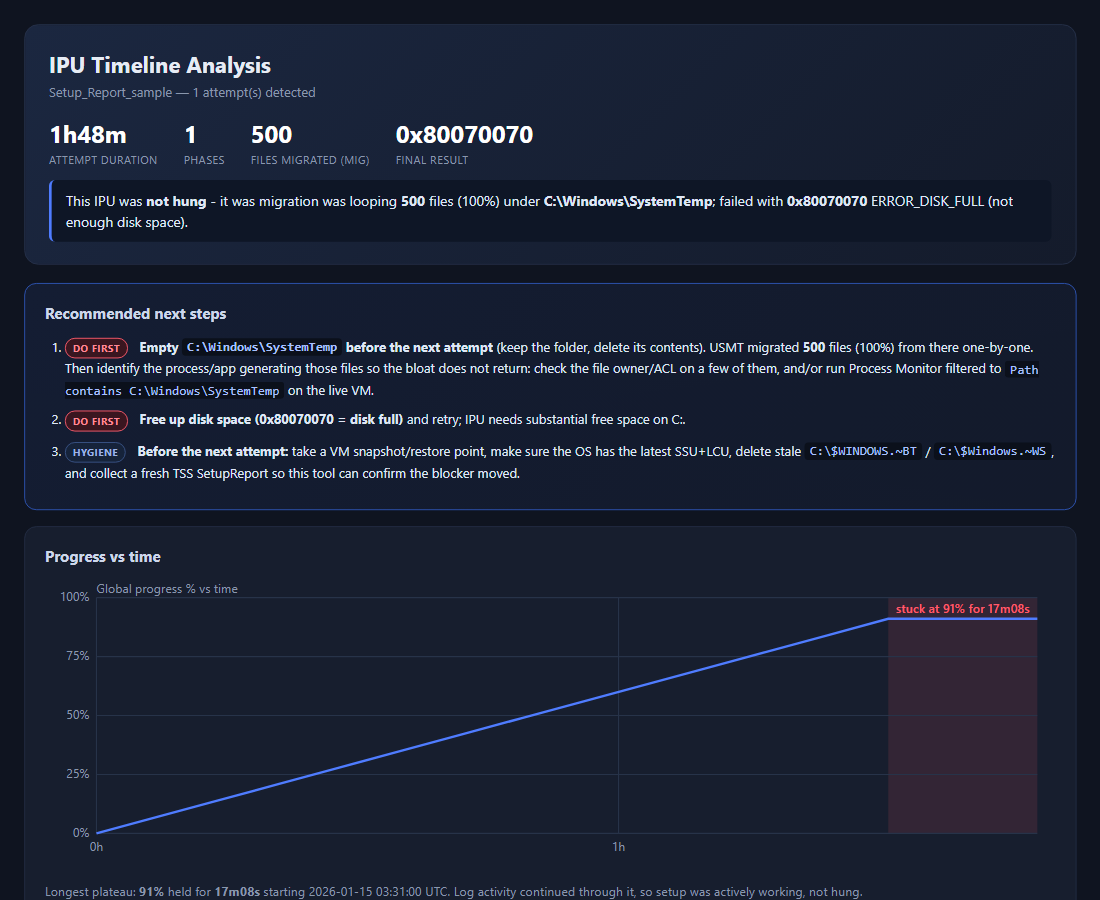
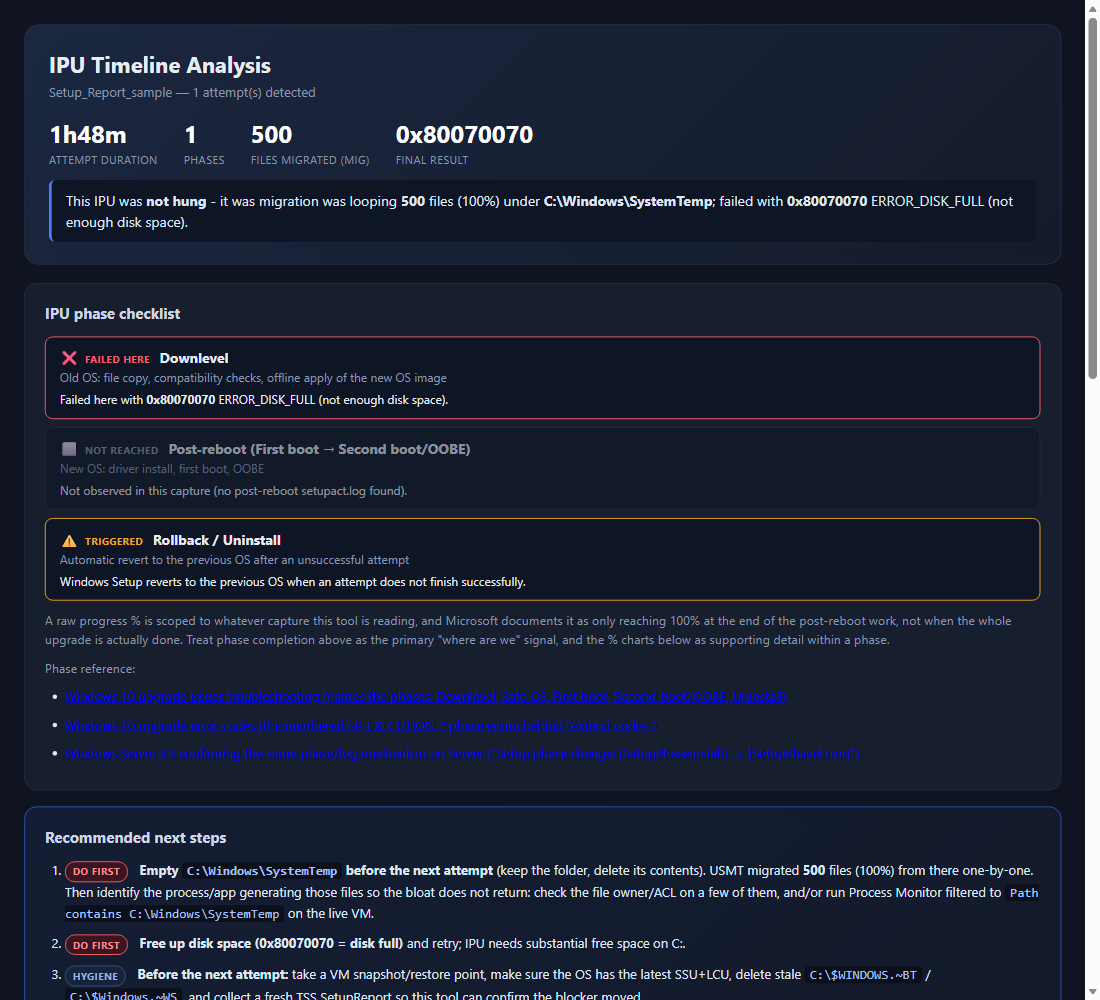
Add IPU phase checklist (Downlevel/post-reboot/rollback) instead of raw progress %
Replaces the raw progress % as the primary 'where are we' indicator with a
phase checklist, since Microsoft's own docs note the percentage only reaches
100% at the end of the post-reboot work, not when the upgrade is done.

Backed by:
- Windows 10 upgrade issues troubleshooting (names the phases)
- Windows 10 upgrade error codes (SP_EXECUTION_* phase enum)
- Windows Server KB 0x80070003 (confirms same mechanism on Server)

Changed region(s): [[0.0, 0.0, 1.0, 1.0]]

diff --git a/samples/sample_report.html b/samples/sample_report.html
@@ -32,6 +32,19 @@ h2{font-size:15px;margin:0 0 12px;color:#cdd7ea}
 .recs{border-color:#2f57b8;background:linear-gradient(135deg,#141d33,#131a2b)}
 .reclist{margin:6px 0 0;padding-left:20px}
 .reclist li{margin:9px 0;color:#dfe7f5;font-size:13px}
+.phaselist{list-style:none;margin:6px 0 0;padding:0;display:flex;flex-direction:column;gap:8px}
+.phaserow{border-radius:8px;padding:10px 14px;border:1px solid #263149;background:#0e1626}
+.phaserow .pico{margin-right:6px}
+.phaserow .pstatus{font-size:10px;font-weight:700;letter-spacing:.04em;color:var(--mut);margin-right:6px}
+.phase-done{border-color:var(--acc2)}
+.phase-done .pstatus{color:var(--acc2)}
+.phase-current{border-color:var(--acc)}
+.phase-current .pstatus{color:var(--acc)}
+.phase-stalled,.phase-triggered{border-color:var(--warn)}
+.phase-stalled .pstatus,.phase-triggered .pstatus{color:var(--warn)}
+.phase-failed{border-color:var(--bad)}
+.phase-failed .pstatus{color:var(--bad)}
+.phase-not_reached{opacity:.55}
 .pr{display:inline-block;font-size:10px;font-weight:700;letter-spacing:.04em;padding:2px 7px;border-radius:10px;margin-right:8px;vertical-align:middle}
 .pr.p1{background:#3a1620;color:#ff8a97;border:1px solid #ff5c6c}
 .pr.p2{background:#2a2410;color:#ffcf7a;border:1px solid #f5a623}
@@ -54,12 +67,13 @@ code{background:#0b101b;padding:1px 5px;border-radius:4px;font-family:Consolas,m
       </div>
       <div class="verdict">This IPU was <b>not hung</b> - it was migration was looping <b>500</b> files (100%) under <b>C:\Windows\SystemTemp</b>; failed with <b>0x80070070</b> ERROR_DISK_FULL (not enough disk space).</div>
     </div>
+<div class="card"><h2>IPU phase checklist</h2><ul class="phaselist"><li class="phaserow phase-failed"><span class="pico">&#10060;</span><span class="pstatus">FAILED HERE</span> <b>Downlevel</b><div class="small muted">Old OS: file copy, compatibility checks, offline apply of the new OS image</div><div class="small" style="margin-top:4px">Failed here with <b>0x80070070</b> ERROR_DISK_FULL (not enough disk space).</div></li><li class="phaserow phase-not_reached"><span class="pico">&#11036;</span><span class="pstatus">NOT REACHED</span> <b>Post-reboot (First boot &rarr; Second boot/OOBE)</b><div class="small muted">New OS: driver install, first boot, OOBE</div><div class="small" style="margin-top:4px">Not observed in this capture (no post-reboot setupact.log found).</div></li><li class="phaserow phase-triggered"><span class="pico">&#9888;&#65039;</span><span class="pstatus">TRIGGERED</span> <b>Rollback / Uninstall</b><div class="small muted">Automatic revert to the previous OS after an unsuccessful attempt</div><div class="small" style="margin-top:4px">Windows Setup reverts to the previous OS when an attempt does not finish successfully.</div></li></ul><p class="note">A raw progress % is scoped to whatever capture this tool is reading, and Microsoft documents it as only reaching 100% at the end of the post-reboot work, not when the whole upgrade is actually done. Treat phase completion above as the primary "where are we" signal, and the % charts below as supporting detail within a phase.</p><p class="note">Phase reference:</p><ul class="reclist small"><li><a href="https://learn.microsoft.com/en-us/troubleshoot/windows-client/setup-upgrade-and-drivers/windows-10-upgrade-issues-troubleshooting">Windows 10 upgrade issues troubleshooting (names the phases: Downlevel, Safe OS, First boot, Second boot/OOBE, Uninstall)</a></li><li><a href="https://learn.microsoft.com/en-us/troubleshoot/windows-client/deployment/windows-10-upgrade-error-codes">Windows 10 upgrade error codes (the numbered SP_EXECUTION_* phase enum behind &quot;extend codes&quot;)</a></li><li><a href="https://learn.microsoft.com/en-us/troubleshoot/windows-server/setup-upgrade-and-drivers/error-0x80070003-during-process-drivers-for-migration">Windows Server KB confirming the same phase/log mechanism on Server (&quot;Setup phase change: [SetupPhaseInstall] -&gt; [SetupPhaseError]&quot;)</a></li></ul></div>
 <div class="card recs"><h2>Recommended next steps</h2><ol class="reclist"><li><span class="pr p1">DO FIRST</span> <b>Empty <code>C:\Windows\SystemTemp</code> before the next attempt</b> (keep the folder, delete its contents). USMT migrated <b>500</b> files (100%) from there one-by-one. Then identify the process/app generating those files so the bloat does not return: check the file owner/ACL on a few of them, and/or run Process Monitor filtered to <code>Path contains C:\Windows\SystemTemp</code> on the live VM.</li><li><span class="pr p1">DO FIRST</span> <b>Free up disk space (0x80070070 = disk full)</b> and retry; IPU needs substantial free space on C:.</li><li><span class="pr p3">HYGIENE</span> <b>Before the next attempt:</b> take a VM snapshot/restore point, make sure the OS has the latest SSU+LCU, delete stale <code>C:\$WINDOWS.~BT</code> / <code>C:\$Windows.~WS</code>, and collect a fresh TSS SetupReport so this tool can confirm the blocker moved.</li></ol></div>
 <div class="card"><h2>Progress vs time</h2><svg viewBox="0 0 900 260" class="chart">
       <rect x="751.2" y="16" width="132.8" height="210" class="stall"/><text x="817.6" y="30" class="stalllbl" text-anchor="middle">stuck at 91% for 17m08s</text><line x1="46" y1="226.0" x2="884" y2="226.0" class="grid"/><text x="40" y="229.0" class="axl" text-anchor="end">0%</text><line x1="46" y1="173.5" x2="884" y2="173.5" class="grid"/><text x="40" y="176.5" class="axl" text-anchor="end">25%</text><line x1="46" y1="121.0" x2="884" y2="121.0" class="grid"/><text x="40" y="124.0" class="axl" text-anchor="end">50%</text><line x1="46" y1="68.5" x2="884" y2="68.5" class="grid"/><text x="40" y="71.5" class="axl" text-anchor="end">75%</text><line x1="46" y1="16.0" x2="884" y2="16.0" class="grid"/><text x="40" y="19.0" class="axl" text-anchor="end">100%</text><line x1="46.0" y1="16" x2="46.0" y2="226" class="grid"/><text x="46.0" y="242" class="axl" text-anchor="middle">0h</text><line x1="511.0" y1="16" x2="511.0" y2="226" class="grid"/><text x="511.0" y="242" class="axl" text-anchor="middle">1h</text>
       <polyline points="46.0,226.0 100.2,211.3 154.5,196.6 208.7,181.9 263.0,167.2 317.2,152.5 371.5,137.8 425.7,123.1 480.0,108.4 534.2,93.7 588.5,79.0 642.7,64.3 697.0,49.6 751.2,34.9 884.0,34.9" class="progline"/>
       <text x="46" y="12" class="cap">Global progress % vs time</text>
-    </svg><p class="note">Longest plateau: <b>91%</b> held for <b>17m08s</b> starting 2026-01-15 03:31:00 UTC. Log activity continued through it, so setup was actively working, not hung.</p></div>
+    </svg><p class="note">Longest plateau: <b>91%</b> held for <b>17m08s</b> starting 2026-01-15 03:31:00 UTC. Log activity continued through it, so setup was actively working, not hung.</p><p class="note">This % is scoped to this capture and only reaches 100% at the end of the post-reboot work, not when the whole upgrade is done. See the IPU phase checklist above for a more reliable view of where this run actually is.</p></div>
 <div class="card"><h2>Phase durations</h2><svg viewBox="0 0 900 36" class="chart"><text x="0" y="21" class="axl2">Finalize</text><rect x="260" y="10" width="520.0" height="16" class="bar"/><text x="786.0" y="22" class="axl2">17m08s</text></svg><p class="note">Phases from <code>Setup phase change: [x] -&gt; [y]</code> (downlevel portion; a cancelled IPU never reaches SafeOS/FirstBoot).</p></div>
 <div class="card"><h2>Migrated-file hotspots (MIG "Processing File")</h2><svg viewBox="0 0 900 36" class="chart"><text x="0" y="21" class="axl2">C:\Windows\SystemTemp</text><rect x="260" y="10" width="520.0" height="16" class="bar3"/><text x="786.0" y="22" class="axl2">500 (100%)</text></svg><p class="note">Total processed = <b>500</b>. A single folder dominating (often <code>C:\Windows\SystemTemp</code>) means USMT is looping millions of tiny files. Clearing that folder before the retry is the fix. If it refills, a live process is generating them (check file owner/ACL or run ProcMon on the folder).</p></div>
 <div class="card"><h2>Outcome</h2><div class="panel">Final result: <b>0x80070070</b> ERROR_DISK_FULL (not enough disk space)</div><details><summary>setuperr.log tail</summary><pre class="log">2026-01-15 03:48:08, Error           SP     Result = 0x80070070</pre></details></div>
@@ -75,4 +89,4 @@ code{background:#0b101b;padding:1px 5px;border-radius:4px;font-family:Consolas,m
 <tr><td>ScanResult</td><td class="mono">UpgradeSetup\~bt_Panther\ScanResult.xml</td><td>Pre-flight compat scan verdict per hardware/plugin/program (BlockingType=Hard/None + Message) - e.g. a domain controller missing ADPREP /DOMAINPREP.</td></tr>
 </table>
 <p class="note"><b>Reading the phases:</b> Downlevel (running OS) &rarr; SafeOS/WinPE (offline apply) &rarr; FirstBoot &rarr; SecondBoot &rarr; OOBE. Progress 0-~90% is downlevel+offline apply; a stall at ~88-90% is almost always the offline apply / USMT migration.</p></div>
-<div class="card"><h2>Sources parsed</h2><div class="small">downlevel_act: <span class="mono small">samples\Setup_Report_sample\~bt_Panther\setupact.log</span><br>downlevel_err: <span class="mono small">samples\Setup_Report_sample\~bt_Panther\setuperr.log</span></div><div class="small muted" style="margin-top:8px">Generated 2026-11-10 15:47 local by ipu_analyze.py. Times shown are raw log timestamps (Azure IPU logs are UTC).</div></div></body></html>
+<div class="card"><h2>Sources parsed</h2><div class="small">downlevel_act: <span class="mono small">samples\Setup_Report_sample\~bt_Panther\setupact.log</span><br>downlevel_err: <span class="mono small">samples\Setup_Report_sample\~bt_Panther\setuperr.log</span></div><div class="small muted" style="margin-top:8px">Generated 2026-11-10 16:43 local by ipu_analyze.py. Times shown are raw log timestamps (Azure IPU logs are UTC).</div></div></body></html>

diff --git a/ipu_analyze.py b/ipu_analyze.py
@@ -1038,7 +1038,10 @@ def render_attempt_detail(am, idx, total):
     else:
         plateau = ''
     parts.append(A + hdr + '<h2>Progress vs time</h2>' +
-                 svg_progress(am['progress'], astart, aend, am['stall']) + plateau + _time_budget(am) + Z)
+                 svg_progress(am['progress'], astart, aend, am['stall']) + plateau + _time_budget(am) +
+                 '<p class="note">This % is scoped to this capture and only reaches 100% at the end of the '
+                 'post-reboot work, not when the whole upgrade is done. See the IPU phase checklist above for '
+                 'a more reliable view of where this run actually is.</p>' + Z)
     # phases
     if am['phase_rows']:
         items = [(r['phase'].replace('SetupPhase', ''), r['dur'], fmt_dur(r['dur'])) for r in am['phase_rows']]
@@ -1206,6 +1209,29 @@ def render_html(model):
       </div>
       <div class="verdict">{m['verdict']}</div>
     </div>''')
+
+    # IPU PHASE CHECKLIST: where this run actually is, as an alternative to a raw %
+    # (right after the hero, ahead of recommendations, since it's the orientation
+    # the rest of the report builds on)
+    pcl = m.get('phase_checklist') or []
+    if pcl:
+        status_icon = {'done': '&#9989;', 'current': '&#128312;', 'stalled': '&#9888;&#65039;',
+                       'failed': '&#10060;', 'not_reached': '&#11036;', 'triggered': '&#9888;&#65039;'}
+        status_label = {'done': 'DONE', 'current': 'IN PROGRESS', 'stalled': 'STUCK HERE',
+                         'failed': 'FAILED HERE', 'not_reached': 'NOT REACHED', 'triggered': 'TRIGGERED'}
+        rows_html = ''.join(
+            f'<li class="phaserow phase-{r["status"]}"><span class="pico">{status_icon.get(r["status"], "")}</span>'
+            f'<span class="pstatus">{status_label.get(r["status"], "")}</span> <b>{r["label"]}</b>'
+            f'<div class="small muted">{esc(r["sub"])}</div>'
+            f'<div class="small" style="margin-top:4px">{r["detail"]}</div></li>'
+            for r in pcl)
+        refs = ''.join(f'<li><a href="{url}">{esc(title)}</a></li>' for title, url in PHASE_DOC_REFS)
+        parts.append('<div class="card"><h2>IPU phase checklist</h2><ul class="phaselist">' + rows_html + '</ul>'
+                     '<p class="note">A raw progress % is scoped to whatever capture this tool is reading, and '
+                     'Microsoft documents it as only reaching 100% at the end of the post-reboot work, not when '
+                     'the whole upgrade is actually done. Treat phase completion above as the primary '
+                     '"where are we" signal, and the % charts below as supporting detail within a phase.</p>'
+                     '<p class="note">Phase reference:</p><ul class="reclist small">' + refs + '</ul></div>')
 
     # RECOMMENDED NEXT STEPS (prominent, right after hero)
     recs = m.get('recommendations') or []
@@ -1431,6 +1457,19 @@ h2{font-size:15px;margin:0 0 12px;color:#cdd7ea}
 .recs{border-color:#2f57b8;background:linear-gradient(135deg,#141d33,#131a2b)}
 .reclist{margin:6px 0 0;padding-left:20px}
 .reclist li{margin:9px 0;color:#dfe7f5;font-size:13px}
+.phaselist{list-style:none;margin:6px 0 0;padding:0;display:flex;flex-direction:column;gap:8px}
+.phaserow{border-radius:8px;padding:10px 14px;border:1px solid #263149;background:#0e1626}
+.phaserow .pico{margin-right:6px}
+.phaserow .pstatus{font-size:10px;font-weight:700;letter-spacing:.04em;color:var(--mut);margin-right:6px}
+.phase-done{border-color:var(--acc2)}
+.phase-done .pstatus{color:var(--acc2)}
+.phase-current{border-color:var(--acc)}
+.phase-current .pstatus{color:var(--acc)}
+.phase-stalled,.phase-triggered{border-color:var(--warn)}
+.phase-stalled .pstatus,.phase-triggered .pstatus{color:var(--warn)}
+.phase-failed{border-color:var(--bad)}
+.phase-failed .pstatus{color:var(--bad)}
+.phase-not_reached{opacity:.55}
 .pr{display:inline-block;font-size:10px;font-weight:700;letter-spacing:.04em;padding:2px 7px;border-radius:10px;margin-right:8px;vertical-align:middle}
 .pr.p1{background:#3a1620;color:#ff8a97;border:1px solid #ff5c6c}
 .pr.p2{background:#2a2410;color:#ffcf7a;border:1px solid #f5a623}
@@ -1598,6 +1637,97 @@ def parse_online_phase(found):
     meaningful = bool(a['phase_rows']) or a['max_pct'] > 0
     return dict(meaningful=meaningful, booted=booted, model=a)
 
+# --------------------------------------------------------------------------
+# macro IPU phase checklist
+# --------------------------------------------------------------------------
+# A raw progress % is a poor "where are we" indicator on its own: it is scoped to
+# whichever log this tool happens to be reading, and Microsoft's own docs note the
+# in-box upgrade UI's percentage only reaches 100% at the END of the post-reboot
+# work, not when the whole upgrade is actually done. So alongside the % curve, build
+# a small checklist of the real macro phases Windows Setup goes through, and show
+# which already finished, which this run is currently in (or stuck/failed in), and
+# which haven't been reached yet. References for the phase model used below:
+PHASE_DOC_REFS = [
+    ('Windows 10 upgrade issues troubleshooting (names the phases: Downlevel, Safe OS, First boot, Second boot/OOBE, Uninstall)',
+     'https://learn.microsoft.com/en-us/troubleshoot/windows-client/setup-upgrade-and-drivers/windows-10-upgrade-issues-troubleshooting'),
+    ('Windows 10 upgrade error codes (the numbered SP_EXECUTION_* phase enum behind "extend codes")',
+     'https://learn.microsoft.com/en-us/troubleshoot/windows-client/deployment/windows-10-upgrade-error-codes'),
+    ('Windows Server KB confirming the same phase/log mechanism on Server ("Setup phase change: [SetupPhaseInstall] -> [SetupPhaseError]")',
+     'https://learn.microsoft.com/en-us/troubleshoot/windows-server/setup-upgrade-and-drivers/error-0x80070003-during-process-drivers-for-migration'),
+]
+
+def build_phase_checklist(primary, final_code, online):
+    """Return an ordered list of macro-phase rows (Downlevel, post-reboot, and an
+    optional rollback row), each with a status of done / current / stalled / failed /
+    not_reached. This tool only ever sees two log sources (the pre-reboot downlevel
+    capture and, if present, the post-reboot online capture), so it cannot reliably
+    split Safe OS from First boot from Second boot/OOBE on its own; those finer
+    sub-phases are documented in PHASE_DOC_REFS for readers who want the full model."""
+    rows = []
+    hang = primary.get('hang')
+    stall = primary.get('stall')
+    booted = bool(online and online.get('booted'))
+
+    # Downlevel: runs in the OLD os (file copy, compat checks, offline apply of the
+    # new OS image onto disk). Covers SP_EXECUTION_DOWNLEVEL and SP_EXECUTION_SAFE_OS.
+    if booted:
+        status = 'done'
+        detail = f'Completed; this run progressed past the first reboot (reached {primary["max_pct"]}% here).'
+    elif final_code:
+        status = 'failed'
+        detail = f'Failed here with <b>{esc(final_code)}</b> {esc(code_note(final_code))}.'
+    elif hang:
+        status = 'stalled'
+        detail = f'Hung here: no log activity for <b>{fmt_dur(hang["secs"])}</b> starting {hang["start"]:%H:%M:%S}.'
+    elif stall and stall[1] > 1800:
+        status = 'stalled'
+        detail = f'Progress stalled at <b>{stall[0]}%</b> for <b>{fmt_dur(stall[1])}</b>.'
+    else:
+        status = 'current'
+        detail = 'Still the most recent activity in this capture; no stall, hang, or failure detected yet.'
+    rows.append(dict(key='downlevel', label='Downlevel',
+                      sub='Old OS: file copy, compatibility checks, offline apply of the new OS image',
+                      status=status, detail=detail))
+
+    # Post-reboot: runs in the NEW os. Covers SP_EXECUTION_FIRST_BOOT + OOBE_BOOT.
+    if online is None:
+        rows.append(dict(key='postreboot', label='Post-reboot (First boot &rarr; Second boot/OOBE)',
+                          sub='New OS: driver install, first boot, OOBE',
+                          status='not_reached',
+                          detail='Not observed in this capture (no post-reboot setupact.log found).'))
+    elif online.get('meaningful') and not booted:
+        rows.append(dict(key='postreboot', label='Post-reboot (First boot &rarr; Second boot/OOBE)',
+                          sub='New OS: driver install, first boot, OOBE',
+                          status='not_reached',
+                          detail='The new OS image was staged during the offline apply, but this run never rebooted into it.'))
+    else:
+        oa = online['model']
+        if oa.get('hang'):
+            status = 'stalled'
+            detail = f'Hung after reboot: no log activity for <b>{fmt_dur(oa["hang"]["secs"])}</b>.'
+        elif oa.get('stall') and oa['stall'][1] > 1800:
+            status = 'stalled'
+            detail = f'Stalled post-reboot at <b>{oa["stall"][0]}%</b> for <b>{fmt_dur(oa["stall"][1])}</b>.'
+        elif final_code:
+            status = 'failed'
+            detail = f'Failed post-reboot with <b>{esc(final_code)}</b> {esc(code_note(final_code))}.'
+        else:
+            status = 'done'
+            detail = f'Reached {oa["max_pct"]}% post-reboot with no stall or hang detected.'
+        rows.append(dict(key='postreboot', label='Post-reboot (First boot &rarr; Second boot/OOBE)',
+                          sub='New OS: driver install, first boot, OOBE', status=status, detail=detail))
+
+    # Rollback/uninstall: Windows Setup automatically reverts to the previous OS when
+    # an attempt does not finish successfully, so only show this row when a failure or
+    # a cancellation was actually detected (never on a bare hang with no result yet).
+    if final_code or primary.get('cancel_ts'):
+        rows.append(dict(key='rollback', label='Rollback / Uninstall',
+                          sub='Automatic revert to the previous OS after an unsuccessful attempt',
+                          status='triggered',
+                          detail='Windows Setup reverts to the previous OS when an attempt does not finish successfully.'))
+    return rows
+
+
 def _no_ipu_model(found, label, is_local=False):
     """Build an explanatory model when a SetupReport has no in-place upgrade run."""
     probes = []
@@ -1681,6 +1811,7 @@ def analyze_report(found, label, attempt_sel=None, show_all=False, want_miglog=F
     recs = build_recommendations(primary, err, corr, corr_assess, diag, scan, incomplete)
     verdict = build_verdict(primary, err, corr, diag, stale_code, scan, incomplete)
     online = parse_online_phase(found)
+    phase_checklist = build_phase_checklist(primary, final_code, online)
     miglog = None
     if want_miglog and found.get('miglog'):
         print(f'    [*] parsing MigLog.xml ({os.path.getsize(found["miglog"])//(1024*1024)} MB)...')
@@ -1690,7 +1821,7 @@ def analyze_report(found, label, attempt_sel=None, show_all=False, want_miglog=F
                 incomplete=incomplete, scan=scan,
                 setupdiag=diag, corruption=corr, corr_assess=corr_assess,
                 recommendations=recs, verdict=verdict, report_date=report_date(label),
-                online=online, miglog=miglog)
+                online=online, phase_checklist=phase_checklist, miglog=miglog)
 
 def _print_summary(model):
     if model.get('no_ipu'):
@@ -1704,6 +1835,11 @@ def _print_summary(model):
     attempts = model['attempts']; sel = model['sel_indices']; primary = attempts[sel[0]]
     err = model['err']; corr = model['corruption']
     print(f"\n=== {model['source_label']} ({len(attempts)} attempt(s), detailing #{sel[0]+1}) ===")
+    for r in model.get('phase_checklist', []):
+        tag = {'done': 'DONE', 'current': 'IN PROGRESS', 'stalled': 'STUCK', 'failed': 'FAILED',
+               'not_reached': 'not reached', 'triggered': 'triggered'}.get(r['status'], r['status'])
+        lbl = r['label'].replace('&rarr;', '->')
+        print(f"   phase  : {lbl:<38} [{tag}]")
     for i, a in enumerate(attempts):
         mark = '*' if i in sel else ' '
         top = sorted(a['mig_folder'].items(), key=lambda x:-x[1])[:1]
@@ -1791,6 +1927,7 @@ def analyze(inp, out_html, out_json=None, attempt_sel=None, show_all=False, want
             jm = [dict(label=m['source_label'], date=str(m['report_date']), final=m.get('final_code'),
                        incomplete=m.get('incomplete'), hard_blocks=(m.get('scan') or {}).get('hard_blocks'),
                        gather_fail=(m.get('err') or {}).get('gather_fail'), corr=m.get('corruption'),
+                       phases=m.get('phase_checklist', []),
                        recs=[r['text'] for r in m.get('recommendations', [])]) for m in models]
             with open(out_json, 'w', encoding='utf-8') as f:
                 json.dump(jm, f, indent=2, default=str)

diff --git a/README.md b/README.md
@@ -12,7 +12,7 @@ Built and validated against **Windows Server** in-place upgrades (2012 R2/2016/2
 See [Scope: Windows Server only (so far)](#scope-windows-server-only-so-far) below
 before pointing this at a Windows 11/client upgrade.
 
-![Report example: recommended next steps](docs/sample-recommendations.png)
+![Report example: IPU phase checklist and recommended next steps](docs/sample-recommendations.png)
 
 ## Two ways to run it
 
@@ -60,28 +60,37 @@ browser to see what a report looks like.)
 
 ## What the report tells you
 
-1. **Recommended next steps**: prioritized DO FIRST / NEXT / HYGIENE actions derived
+1. **IPU phase checklist**: which macro phase this run is in. Not a raw percentage:
+   Microsoft's own docs note that percentage only reaches 100% at the end of the
+   post-reboot work, so a stuck downlevel capture can show a misleadingly high number
+   while having no visibility into most of the upgrade. The checklist instead shows
+   **Downlevel** (done / in progress / stuck / failed here), **Post-reboot**
+   (First boot to Second boot/OOBE: done / stuck / not reached), and a conditional
+   **Rollback/Uninstall** row when a failure or cancellation was detected. See
+   [Phase checklist: how it's derived](#phase-checklist-how-its-derived) below.
+2. **Recommended next steps**: prioritized DO FIRST / NEXT / HYGIENE actions derived
    from the findings, not a generic checklist.
-2. **Attempts overview**: one row per attempt (window, duration, max %, longest
+3. **Attempts overview**: one row per attempt (window, duration, max %, longest
    stall, top migrated folder). Attempts are split on `SetupHost Logging Begin`.
-3. **Progress vs. time**: the global-progress % curve, extended flat through a stall
-   so "stuck at NN%" reads as one continuous line instead of blank space.
-4. **Hang vs. busy plateau**: a flat % is only called a **hang** when the log itself
+4. **Progress vs. time**: the global-progress % curve, extended flat through a stall
+   so "stuck at NN%" reads as one continuous line instead of blank space. Treat this
+   as supporting detail within a phase, not the headline "where are we" signal.
+5. **Hang vs. busy plateau**: a flat % is only called a **hang** when the log itself
    goes silent for 30+ minutes through it. Otherwise it's reported as *busy* (e.g.
    USMT still migrating files) with the longest-running operation called out.
-5. **Phase durations & longest operations**: from `Setup phase change:` markers and
+6. **Phase durations & longest operations**: from `Setup phase change:` markers and
    the SP operation table. Includes a synthetic bar for an offline-apply/migration
    op that never completes when the run is cancelled mid-way.
-6. **Finalize timing telemetry**: `CSetupDiagnostics … [*Time]=[0x..]` values (e.g.
+7. **Finalize timing telemetry**: `CSetupDiagnostics … [*Time]=[0x..]` values (e.g.
    `DriverMigrationTime` dominating = USMT file migration is the bottleneck).
-7. **Migrated-file hotspots**: `MIG … Processing File:` lines bucketed by folder.
+8. **Migrated-file hotspots**: `MIG … Processing File:` lines bucketed by folder.
    `C:\Windows\SystemTemp` dominating is the classic multi-hour cause: USMT looping
    millions of tiny temp files one at a time.
-8. **USMT migration breakdown** (`--miglog`, opt-in; `MigLog.xml` can be 300 MB+):
+9. **USMT migration breakdown** (`--miglog`, opt-in; `MigLog.xml` can be 300 MB+):
    migrated units by group/role/agent and migration-plugin action counts.
-9. **Online/new-OS phase**: distinguishes an offline-applied specialize phase
-   (labeled explicitly as *not* a real reboot) from a true post-reboot first boot.
-10. **Outcome**: the final result code with a plain-English explanation, plus
+10. **Online/new-OS phase**: distinguishes an offline-applied specialize phase
+    (labeled explicitly as *not* a real reboot) from a true post-reboot first boot.
+11. **Outcome**: the final result code with a plain-English explanation, plus
     SetupDiag's failing operation. It also includes a **compatibility hard-block
     panel** (parsed from `ScanResult.xml`; e.g. a domain controller missing
     `ADPREP /DOMAINPREP`, with targeted remediation), a **migration-plugin
@@ -89,10 +98,28 @@ browser to see what a report looks like.)
     the generic wrapper error code that follows it), and an intentionally honest
     **CBS corruption assessment** (NOISE / RELEVANT / BLOCKER). It will not
     overstate corruption as *the* cause from logs alone.
-11. **Which logs to check**: a short IPU log cheat-sheet.
-12. **No-IPU / incomplete-capture detection**: if the logs show no in-place upgrade
+12. **Which logs to check**: a short IPU log cheat-sheet.
+13. **No-IPU / incomplete-capture detection**: if the logs show no in-place upgrade
     ever ran, or the capture was cut off mid-write (a long run of NUL padding at EOF),
     the report says so plainly instead of guessing or fabricating a final result.
+
+## Phase checklist: how it's derived
+
+`ipu_analyze.py` only ever sees up to two log sources: the pre-reboot **downlevel**
+capture and, if present, the post-reboot **online/new-OS** capture. That's enough to
+tell apart two macro phases reliably, but not enough to split Safe OS from First boot
+from Second boot/OOBE on its own. The checklist is intentionally conservative about
+that: it reports **Downlevel** and **Post-reboot (First boot to Second boot/OOBE)** as
+two rows, plus a conditional **Rollback/Uninstall** row when a failure or cancellation
+was detected (Windows Setup automatically reverts to the previous OS when an attempt
+doesn't finish).
+
+For the full, finer-grained phase model Windows Setup actually uses internally, see:
+
+- [Windows 10 upgrade issues troubleshooting](https://learn.microsoft.com/en-us/troubleshoot/windows-client/setup-upgrade-and-drivers/windows-10-upgrade-issues-troubleshooting), which names the phases: Downlevel, Safe OS, First boot, Second boot (OOBE), and Uninstall if the upgrade fails. It also states plainly that the displayed percentage "reach[es] 100% at the end of the second boot phase," not when the upgrade is actually done.
+- [Windows 10 upgrade error codes](https://learn.microsoft.com/en-us/troubleshoot/windows-client/deployment/windows-10-upgrade-error-codes), which documents the numbered `SP_EXECUTION_*` phase enum (`DOWNLEVEL`, `SAFE_OS`, `FIRST_BOOT`, `OOBE_BOOT`, `UNINSTALL`) encoded in Windows Setup's "extend codes."
+- [Windows Server KB: "0x80070003" during Process Drivers for Migration](https://learn.microsoft.com/en-us/troubleshoot/windows-server/setup-upgrade-and-drivers/error-0x80070003-during-process-drivers-for-migration), which shows this same phase/log mechanism on **Windows Server** (a real `Setup phase change: [SetupPhaseInstall] -> [SetupPhaseError]` line), confirming it isn't a Windows-11/client-only behavior.
+
 
 ## Supported inputs at a glance
 
@@ -153,6 +180,10 @@ A PR with a validated client sample/fixture is very welcome.
   false-positive (not observed in practice).
 - Not validated against Windows 11/client in-place upgrades. See
   [Scope](#scope-windows-server-only-so-far) above.
+- The IPU phase checklist only distinguishes **Downlevel** from **Post-reboot**; it
+  can't reliably split Safe OS from First boot from Second boot/OOBE from the two log
+  sources this tool parses. See
+  [Phase checklist: how it's derived](#phase-checklist-how-its-derived) above.
 
 ## Contributing
 
